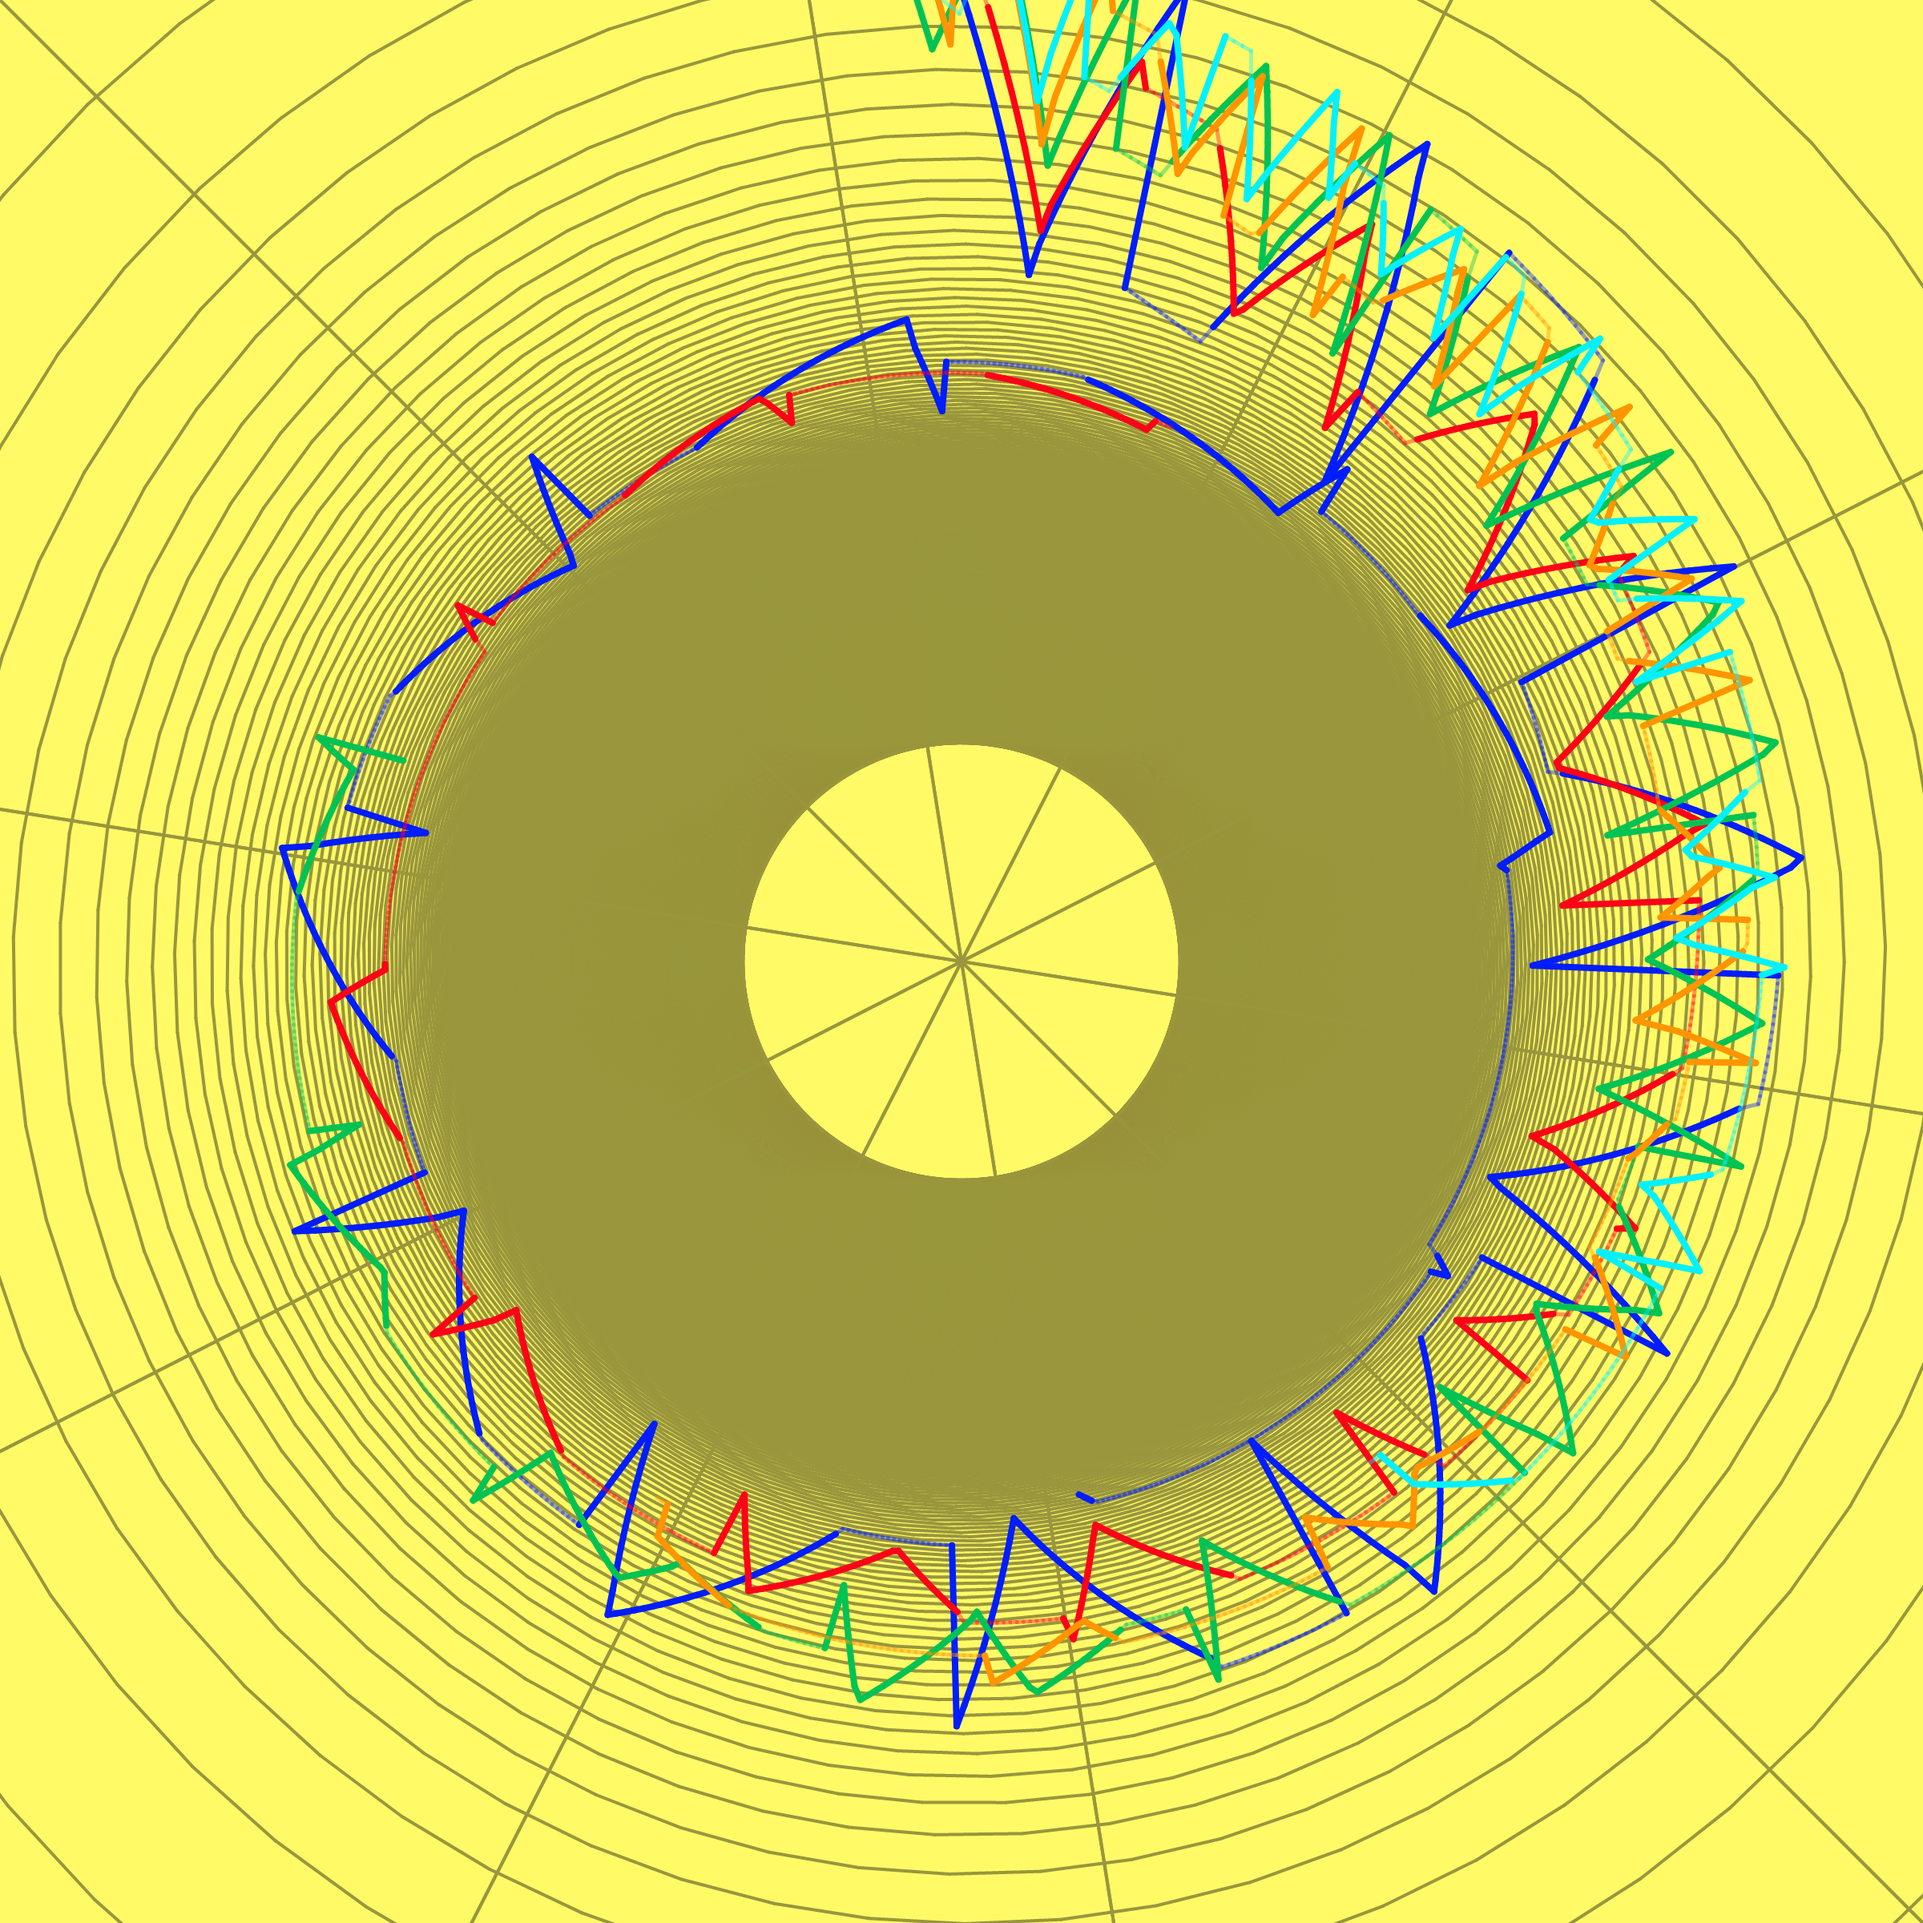
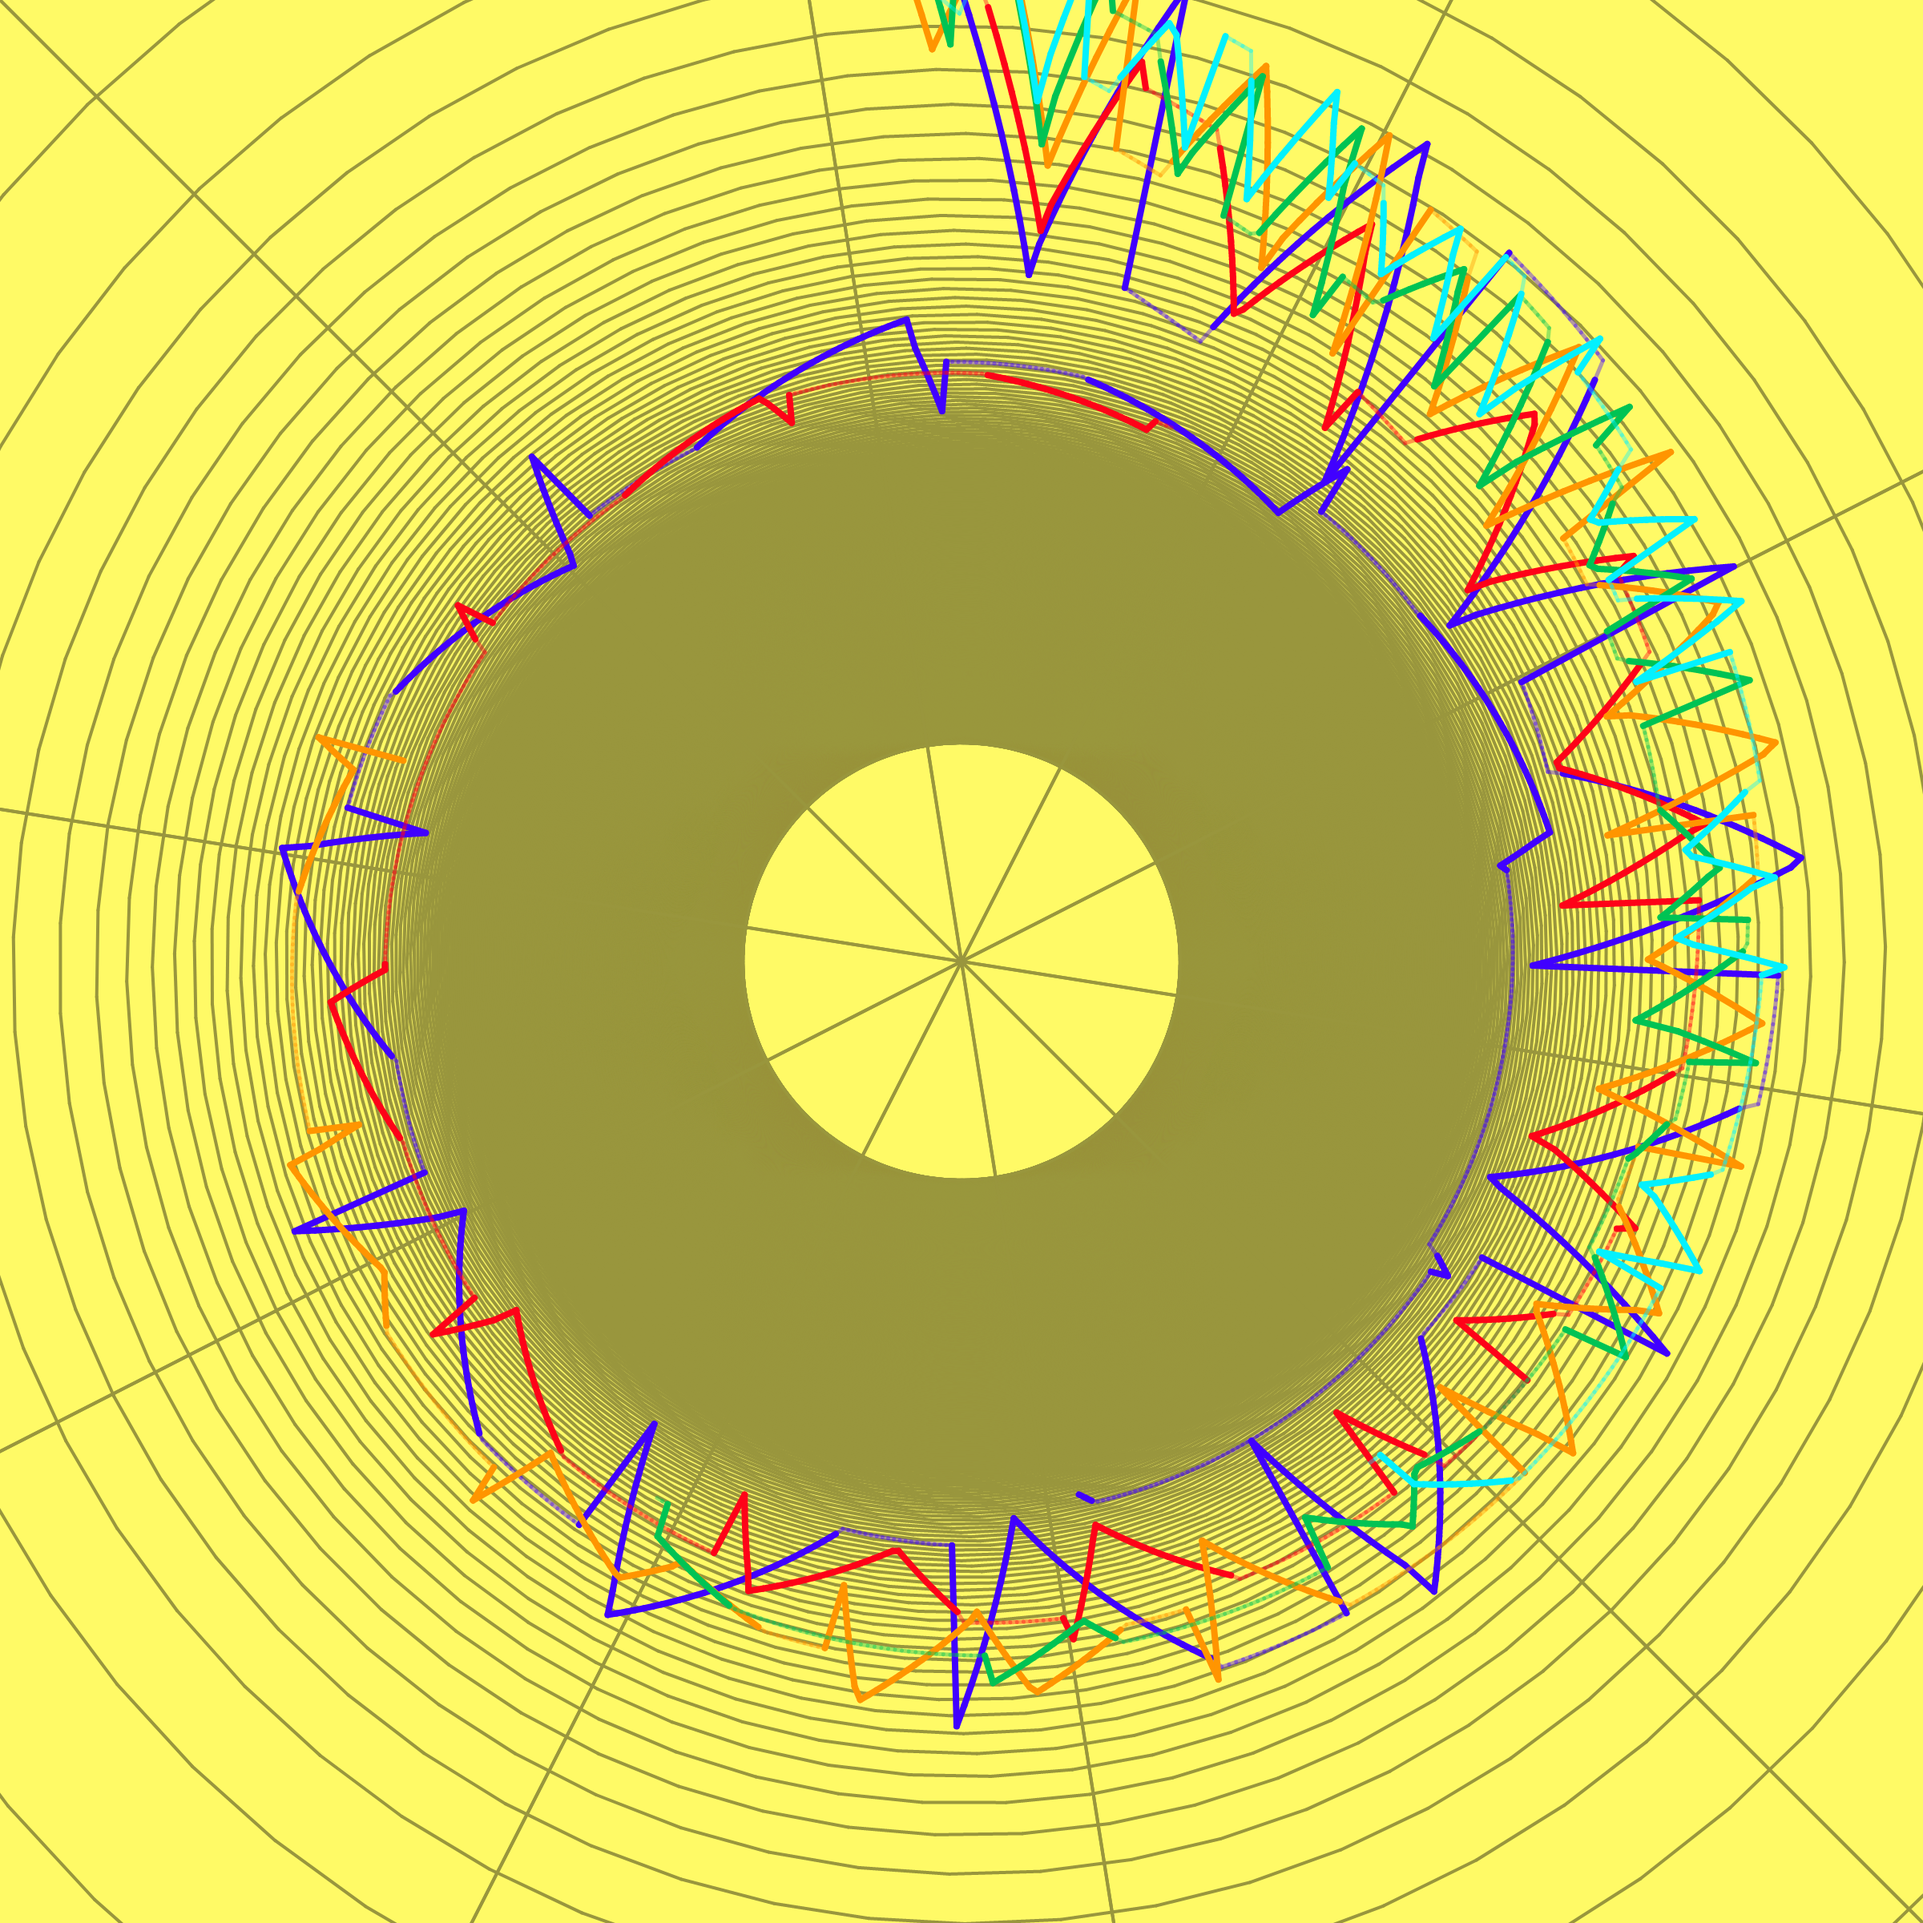
update texture

diff --git a/docs/data/bailliet_part2.js b/docs/data/bailliet_part2.js
@@ -1,1 +1,1 @@
-let data2 = {"data": [{"reh_num": 20, "bpm": 128, "qtr_dur": 20, "elt_type": "a", "fund": "bf", "dyn": "ffff"}, {"reh_num": 21, "bpm": 112, "qtr_dur": 19, "elt_type": "b", "fund": "bf", "dyn": "nient"}, {"reh_num": 22, "bpm": 128, "qtr_dur": 18, "elt_type": "a", "fund": "a", "dyn": "fff"}, {"reh_num": 23, "bpm": 112, "qtr_dur": 21, "elt_type": "b", "fund": "a", "dyn": "nient"}, {"reh_num": 24, "bpm": 126, "qtr_dur": 17, "elt_type": "a", "fund": "af", "dyn": "pppp"}, {"reh_num": 25, "bpm": 96, "qtr_dur": 20, "elt_type": "b", "fund": "af", "dyn": "nient"}, {"reh_num": 26, "bpm": 112, "qtr_dur": 19, "elt_type": "a'", "fund": "af", "dyn": "ff"}, {"reh_num": 27, "bpm": 128, "qtr_dur": 16, "elt_type": "a", "fund": "g", "dyn": "fff"}, {"reh_num": 28, "bpm": 96, "qtr_dur": 23, "elt_type": "b", "fund": "g", "dyn": "nient"}, {"reh_num": 29, "bpm": 112, "qtr_dur": 17, "elt_type": "a'", "fund": "g", "dyn": "p"}, {"reh_num": 30, "bpm": 128, "qtr_dur": 15, "elt_type": "a", "fund": "fs", "dyn": "fff"}, {"reh_num": 31, "bpm": 80, "qtr_dur": 22, "elt_type": "b", "fund": "fs", "dyn": "nient"}, {"reh_num": 32, "bpm": 112, "qtr_dur": 16, "elt_type": "a'", "fund": "fs", "dyn": "ff"}, {"reh_num": "32.5", "bpm": 112, "qtr_dur": 23, "elt_type": "b'", "fund": "fs", "dyn": "none"}, {"reh_num": 33, "bpm": 128, "qtr_dur": 14, "elt_type": "a", "fund": "f", "dyn": "fff"}, {"reh_num": 34, "bpm": 80, "qtr_dur": 27, "elt_type": "b", "fund": "f", "dyn": "nient"}, {"reh_num": 35, "bpm": 112, "qtr_dur": 15, "elt_type": "a'", "fund": "f", "dyn": "nient"}, {"reh_num": 36, "bpm": 96, "qtr_dur": 23, "elt_type": "b'", "fund": "f", "dyn": "none"}, {"reh_num": 37, "bpm": 128, "qtr_dur": 13, "elt_type": "a", "fund": "e", "dyn": "nient"}, {"reh_num": 38, "bpm": 64, "qtr_dur": 27, "elt_type": "b", "fund": "e", "dyn": "nient"}, {"reh_num": 39, "bpm": 112, "qtr_dur": 14, "elt_type": "a'", "fund": "e", "dyn": "ff"}, {"reh_num": 40, "bpm": 80, "qtr_dur": 22, "elt_type": "b'", "fund": "e", "dyn": "none"}, {"reh_num": 41, "bpm": 96, "qtr_dur": 15, "elt_type": "a''", "fund": "e", "dyn": "pp"}, {"reh_num": 42, "bpm": 128, "qtr_dur": 12, "elt_type": "a", "fund": "ef", "dyn": "fff"}, {"reh_num": 43, "bpm": 64, "qtr_dur": 36, "elt_type": "b", "fund": "ef", "dyn": "nient"}, {"reh_num": 44, "bpm": 112, "qtr_dur": 13, "elt_type": "a'", "fund": "ef", "dyn": "ff"}, {"reh_num": 45, "bpm": 80, "qtr_dur": 27, "elt_type": "b'", "fund": "ef", "dyn": "none"}, {"reh_num": 46, "bpm": 96, "qtr_dur": 14, "elt_type": "a''", "fund": "ef", "dyn": "pp"}, {"reh_num": 47, "bpm": 128, "qtr_dur": 11, "elt_type": "a", "fund": "d", "dyn": "fff"}, {"reh_num": 48, "bpm": 48, "qtr_dur": 80, "elt_type": "b", "fund": "d", "dyn": "nient"}, {"reh_num": 50, "bpm": 112, "qtr_dur": 12, "elt_type": "a'", "fund": "d", "dyn": "ff"}, {"reh_num": 51, "bpm": 64, "qtr_dur": 27, "elt_type": "b'", "fund": "d", "dyn": "fff"}, {"reh_num": 52, "bpm": 96, "qtr_dur": 13, "elt_type": "a''", "fund": "d", "dyn": "pp"}, {"reh_num": "52.5", "bpm": 96, "qtr_dur": 20, "elt_type": "b''", "fund": "d", "dyn": "none"}, {"reh_num": 53, "bpm": 128, "qtr_dur": 10, "elt_type": "a", "fund": "df", "dyn": "fff"}, {"reh_num": 54, "bpm": 48, "qtr_dur": 158, "elt_type": "b", "fund": "df", "dyn": "nient"}, {"reh_num": 61, "bpm": 112, "qtr_dur": 3, "elt_type": "a''", "fund": "df", "dyn": "none"}, {"reh_num": "61.1", "bpm": 112, "qtr_dur": "3.6", "elt_type": "a''", "fund": "c", "dyn": "none"}, {"reh_num": "61.2", "bpm": 112, "qtr_dur": "1.9", "elt_type": "a''", "fund": "b", "dyn": "none"}, {"reh_num": "61.3", "bpm": 112, "qtr_dur": "2.5", "elt_type": "a''", "fund": "bf", "dyn": "none"}, {"reh_num": "61.4", "bpm": 112, "qtr_dur": 18, "elt_type": "a''", "fund": "a", "dyn": "none"}]}
+let data2 = {"data": [{"reh_num": 20, "bpm": 128, "qtr_dur": 20, "elt_type": "a", "fund": "bf", "dyn": "ffff"}, {"reh_num": 21, "bpm": 112, "qtr_dur": 19, "elt_type": "b", "fund": "bf", "dyn": "nient"}, {"reh_num": 22, "bpm": 128, "qtr_dur": 18, "elt_type": "a", "fund": "a", "dyn": "fff"}, {"reh_num": 23, "bpm": 112, "qtr_dur": 21, "elt_type": "b", "fund": "a", "dyn": "nient"}, {"reh_num": 24, "bpm": 126, "qtr_dur": 17, "elt_type": "a", "fund": "af", "dyn": "pppp"}, {"reh_num": 25, "bpm": 96, "qtr_dur": 20, "elt_type": "b", "fund": "af", "dyn": "nient"}, {"reh_num": 26, "bpm": 112, "qtr_dur": 19, "elt_type": "a'", "fund": "af", "dyn": "ff"}, {"reh_num": 27, "bpm": 128, "qtr_dur": 16, "elt_type": "a", "fund": "g", "dyn": "fff"}, {"reh_num": 28, "bpm": 96, "qtr_dur": 23, "elt_type": "b", "fund": "g", "dyn": "nient"}, {"reh_num": 29, "bpm": 112, "qtr_dur": 17, "elt_type": "a'", "fund": "g", "dyn": "p"}, {"reh_num": 30, "bpm": 128, "qtr_dur": 15, "elt_type": "a", "fund": "fs", "dyn": "fff"}, {"reh_num": 31, "bpm": 80, "qtr_dur": 22, "elt_type": "b", "fund": "fs", "dyn": "nient"}, {"reh_num": 32, "bpm": 112, "qtr_dur": 16, "elt_type": "a'", "fund": "fs", "dyn": "ff"}, {"reh_num": "32.5", "bpm": 112, "qtr_dur": 23, "elt_type": "b'", "fund": "fs", "dyn": "none"}, {"reh_num": 33, "bpm": 128, "qtr_dur": 14, "elt_type": "a", "fund": "f", "dyn": "fff"}, {"reh_num": 34, "bpm": 80, "qtr_dur": 27, "elt_type": "b", "fund": "f", "dyn": "nient"}, {"reh_num": 35, "bpm": 112, "qtr_dur": 15, "elt_type": "a'", "fund": "f", "dyn": "nient"}, {"reh_num": 36, "bpm": 96, "qtr_dur": 23, "elt_type": "b'", "fund": "f", "dyn": "none"}, {"reh_num": 37, "bpm": 128, "qtr_dur": 13, "elt_type": "a", "fund": "e", "dyn": "nient"}, {"reh_num": 38, "bpm": 64, "qtr_dur": 27, "elt_type": "b", "fund": "e", "dyn": "nient"}, {"reh_num": 39, "bpm": 112, "qtr_dur": 14, "elt_type": "a'", "fund": "e", "dyn": "ff"}, {"reh_num": 40, "bpm": 80, "qtr_dur": 22, "elt_type": "b'", "fund": "e", "dyn": "none"}, {"reh_num": 41, "bpm": 96, "qtr_dur": 15, "elt_type": "a''", "fund": "e", "dyn": "pp"}, {"reh_num": 42, "bpm": 128, "qtr_dur": 12, "elt_type": "a", "fund": "ef", "dyn": "fff"}, {"reh_num": 43, "bpm": 64, "qtr_dur": 36, "elt_type": "b", "fund": "ef", "dyn": "nient"}, {"reh_num": 44, "bpm": 112, "qtr_dur": 13, "elt_type": "a'", "fund": "ef", "dyn": "ff"}, {"reh_num": 45, "bpm": 80, "qtr_dur": 27, "elt_type": "b'", "fund": "ef", "dyn": "none"}, {"reh_num": 46, "bpm": 96, "qtr_dur": 14, "elt_type": "a''", "fund": "ef", "dyn": "pp"}, {"reh_num": 47, "bpm": 128, "qtr_dur": 11, "elt_type": "a", "fund": "d", "dyn": "fff"}, {"reh_num": 48, "bpm": 48, "qtr_dur": 80, "elt_type": "b", "fund": "d", "dyn": "nient"}, {"reh_num": 50, "bpm": 112, "qtr_dur": 12, "elt_type": "a'", "fund": "d", "dyn": "ff"}, {"reh_num": 51, "bpm": 64, "qtr_dur": 27, "elt_type": "b'", "fund": "d", "dyn": "fff"}, {"reh_num": 52, "bpm": 96, "qtr_dur": 13, "elt_type": "a''", "fund": "d", "dyn": "pp"}, {"reh_num": "52.5", "bpm": 96, "qtr_dur": 20, "elt_type": "b''", "fund": "d", "dyn": "none"}, {"reh_num": 53, "bpm": 128, "qtr_dur": 10, "elt_type": "a", "fund": "df", "dyn": "fff"}, {"reh_num": 54, "bpm": 48, "qtr_dur": 158, "elt_type": "b", "fund": "df", "dyn": "nient"}, {"reh_num": 61, "bpm": 112, "qtr_dur": 3, "elt_type": "a'", "fund": "df", "dyn": "none"}, {"reh_num": "61.1", "bpm": 112, "qtr_dur": "3.6", "elt_type": "a'", "fund": "c", "dyn": "none"}, {"reh_num": "61.2", "bpm": 112, "qtr_dur": "1.9", "elt_type": "a'", "fund": "b", "dyn": "none"}, {"reh_num": "61.3", "bpm": 112, "qtr_dur": "2.5", "elt_type": "a'", "fund": "bf", "dyn": "none"}, {"reh_num": "61.4", "bpm": 112, "qtr_dur": 18, "elt_type": "b'", "fund": "a", "dyn": "none"}]}

diff --git a/p5js/sketch.js b/p5js/sketch.js
@@ -16,7 +16,7 @@ let rangeScl = 0.0075;
 let comp = 1;
 //let clr1 = [252, 186,3];
 let clr1 = [255, 250,102];
-let colorArray = ["#001DFF", "#FE0218", "#00c354", "#ff9500", "#03F1FE"];
+let colorArray = ["#4000FF", "#FE0218", "#ff9500", "#00c354", "#03F1FE"];
 let cPitch = stringToMidi("ef4");
 let circleSpacing = 300;
 let startDiam = 100;
